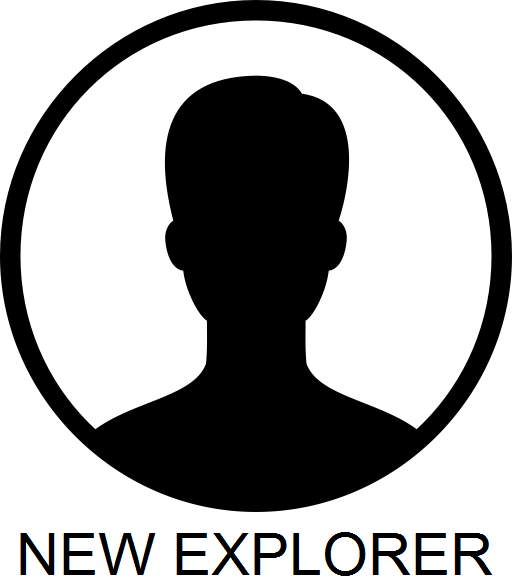
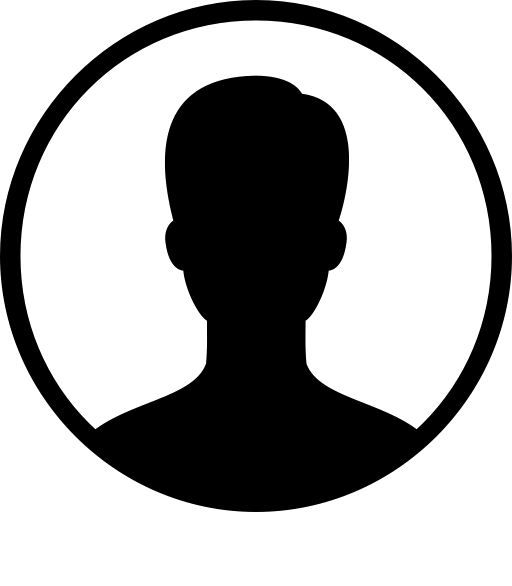
Implemented skins system

Changed region(s): [[0.3438, 0.8908, 0.9688, 0.9829], [0.0312, 0.8908, 0.3125, 0.9829]]

diff --git a/ZendApp/public/css/user/details.css b/ZendApp/public/css/user/details.css
@@ -13,11 +13,17 @@
 }
 
 .border-container img {
+    /*
     max-height: 350px;
     margin-left: auto;
     margin-right: auto;
     text-align: center;
     display: block;
+    */
+}
+
+.img-thumbnail {
+    background-color:transparent;
 }
 
 .user-detail-list .username {

diff --git a/ZendApp/application/models/SkinFactory.php b/ZendApp/application/models/SkinFactory.php
@@ -1,0 +1,49 @@
+<?
+
+/**
+ * Class SkinFactory
+ *
+ * Manages everything to do with Skins (user customisation incentives)
+ *
+ * @author Craig Knott
+ *
+ */
+class SkinFactory extends ModelFactory {
+
+    /**
+     * Returns all skins equipped by a particular user
+     *
+     * @author Craig Knott
+     *
+     * @param int $userId Id of the user to look for
+     *
+     * @return array Array of user skins
+     */
+    public static function getUserEquippedSkins($userId) {
+        $sql = "SELECT
+                    s.pk_skin_id AS id,
+                    s.name AS name,
+                    s.img AS img,
+                    iss.name AS slot_name
+                FROM tb_user u
+                JOIN tb_skin_owner o
+                ON u.pk_user_id = o.fk_user_id
+                JOIN tb_skin s
+                ON o.fk_skin_id = s.pk_skin_id
+                JOIN tb_skin_slot iss
+                ON s.fk_slot_id = iss.pk_skin_slot_id
+                WHERE pk_user_id = :userId
+                AND equipped = 1";
+        $params = array(
+            ':userId' => $userId
+        );
+        $results = parent::fetchAll($sql, $params);
+
+        $skins = array();
+        foreach ($results as $skin) {
+            $skins[$skin->slot_name] = $skin;
+        }
+        return $skins;
+    }
+
+}

diff --git a/ZendApp/application/models/UserFactory.php b/ZendApp/application/models/UserFactory.php
@@ -132,7 +132,7 @@ class UserFactory extends ModelFactory {
                     email_on_route_fork = :emailOnRouteFork,
                     email_on_route_rating = :emailOnRouteRating,
                     email_on_announcement = :emailOnAnnouncement
-                WHERE fk_pk_user_id = :userId";
+                WHERE fk_user_id = :userId";
         $params = array(
             ':emailOnRouteComment' => $emailOnRouteComment,
             ':emailOnRouteFork'    => $emailOnRouteFork,
@@ -153,8 +153,7 @@ class UserFactory extends ModelFactory {
      *
      * @return User | Object The user object of this user, or the returned SQL query
      */
-    public
-    static function getUser($userId, $asObject = true) {
+    public static function getUser($userId, $asObject = true) {
         $sql = "SELECT
                     pk_user_id AS id,
                     username,
@@ -177,7 +176,7 @@ class UserFactory extends ModelFactory {
                     email_on_announcement
                 FROM tb_user u
                 JOIN tb_user_preference up
-                ON u.pk_user_id = up.fk_pk_user_id
+                ON u.pk_user_id = up.fk_user_id
                 WHERE pk_user_id = :userId";
         $params = array(
             ':userId' => $userId

diff --git a/ZendApp/application/controllers/UserController.php b/ZendApp/application/controllers/UserController.php
@@ -42,6 +42,8 @@ class UserController extends BaseController {
             $displayedUser = UserFactory::getUser($customUserId);
         }
 
+        $this->view->userSkins = SkinFactory::getUserEquippedSkins($displayedUser->userId, true);
+
         // Get usage statistics for the user
         $displayedUser->stats = (object)array(
             'average_rating'    => RatingFactory::getAverageRatingForUser($displayedUser->userId),

diff --git a/ZendApp/application/models/LoginFactory.php b/ZendApp/application/models/LoginFactory.php
@@ -63,7 +63,7 @@ class LoginFactory extends ModelFactory {
 
         // Add row in preferences table
         $sql = "INSERT INTO tb_user_preference (
-                    fk_pk_user_id
+                    fk_user_id
                 ) VALUES (
                     :userId
                 )";
